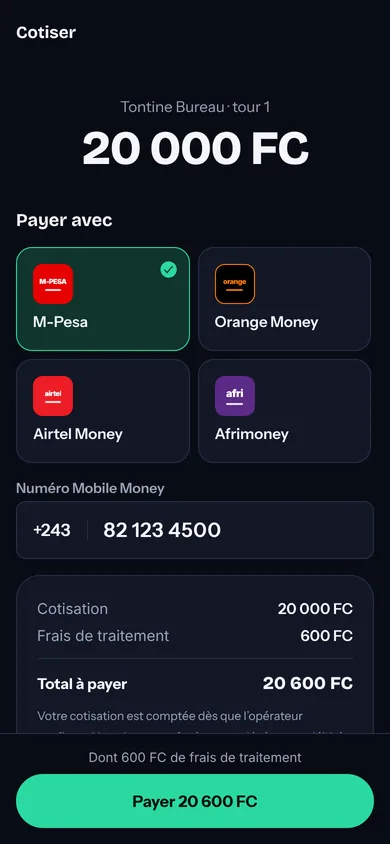
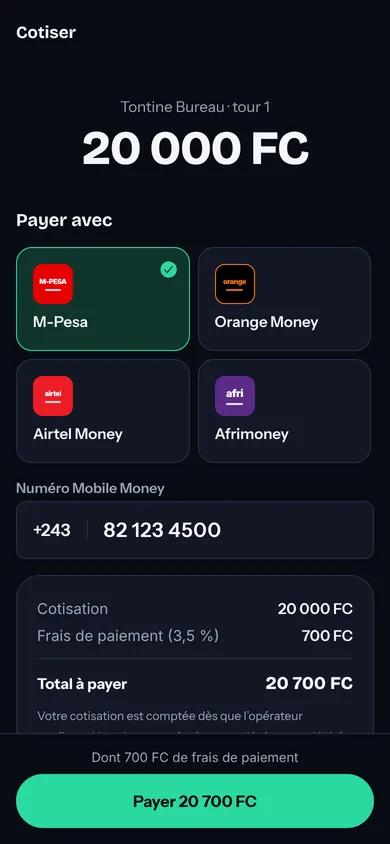
Frais : 3,5 % dépôt, 3 % retrait, 2 % service iKobi sur la cagnotte versée — moteur à composantes, affichage app, WhatsApp et site
Claude-Session: https://claude.ai/code/session_01GZQwZyCx5efDF4SVzYt82r

diff --git a/aide.html b/aide.html
@@ -21,7 +21,7 @@
 <link rel="preload" href="/assets/fonts/instrument-sans-latin-wght-normal.woff2" as="font" type="font/woff2" crossorigin>
 <link rel="stylesheet" href="/assets/style.css">
 <script src="/assets/main.js" defer></script>
-<script type="application/ld+json">{"@context":"https://schema.org","@type":"FAQPage","mainEntity":[{"@type":"Question","name":"Qu’est-ce qu’une likelemba ?","acceptedAnswer":{"@type":"Answer","text":"Une tontine tournante : un groupe de personnes de confiance cotise le même montant à intervalles réguliers, et à chaque tour un membre différent reçoit toute la cagnotte. Quand chacun l’a reçue une fois, la tontine est terminée."}},{"@type":"Question","name":"Combien coûte iKobi ?","acceptedAnswer":{"@type":"Answer","text":"Créer une tontine, inviter des membres et utiliser l’assistant WhatsApp sont gratuits. Les frais de paiement éventuels sont affichés avant chaque paiement, avec le total exact. Voir les tarifs."}},{"@type":"Question","name":"Quels moyens de paiement sont acceptés ?","acceptedAnswer":{"@type":"Answer","text":"M-Pesa (Vodacom), Orange Money, Airtel Money et Afrimoney (Africell), en francs congolais. Le dollar n’est pas encore disponible."}},{"@type":"Question","name":"Comment se connecter ?","acceptedAnswer":{"@type":"Answer","text":"Avec votre numéro de téléphone : nous vous envoyons un code à six chiffres sur WhatsApp. Il n’y a pas de mot de passe à retenir."}},{"@type":"Question","name":"iKobi peut-il me demander mon code PIN ?","acceptedAnswer":{"@type":"Answer","text":"Jamais. Le code PIN se saisit uniquement dans la fenêtre de votre opérateur, sur l’écran de votre téléphone. Si quelqu’un vous le demande au nom d’iKobi, c’est une arnaque : signalez-la à contact@ikobi.app."}},{"@type":"Question","name":"Le bénéficiaire du tour doit-il cotiser ?","acceptedAnswer":{"@type":"Answer","text":"Non. À chaque tour, tous les membres sauf le bénéficiaire cotisent. Il reçoit la cotisation multipliée par le nombre de membres moins un."}},{"@type":"Question","name":"Quand la cagnotte est-elle versée ?","acceptedAnswer":{"@type":"Answer","text":"Quand toutes les cotisations du tour sont confirmées et arrivées sur le compte de paiement. L’organisateur demande alors le versement, l’équipe iKobi le vérifie, puis l’argent est envoyé sur le Mobile Money du bénéficiaire."}},{"@type":"Question","name":"Que se passe-t-il si un membre ne paie pas ?","acceptedAnswer":{"@type":"Answer","text":"Le tour reste ouvert et la cagnotte n’est pas versée. Le membre reçoit des rappels, et le groupe voit qui est en attente. iKobi ne paie pas à la place d’un membre : choisissez des personnes de confiance."}},{"@type":"Question","name":"Mon paiement est « en attente » : que faire ?","acceptedAnswer":{"@type":"Answer","text":"Vérifiez votre téléphone et validez la demande avec votre code PIN. Si vous l’avez déjà fait, patientez quelques minutes : nous interrogeons l’opérateur automatiquement. Un paiement en attente n’est jamais compté deux fois."}},{"@type":"Question","name":"Puis-je cotiser sur WhatsApp ?","acceptedAnswer":{"@type":"Answer","text":"Oui. Écrivez « cotiser » à l’assistant iKobi : il vous montre le montant, envoie la demande à votre opérateur et confirme dans la conversation. Écrivez « statut » pour voir où en sont vos tontines."}},{"@type":"Question","name":"Comment supprimer mon compte ?","acceptedAnswer":{"@type":"Answer","text":"Dans l’app : Profil, puis Supprimer mon compte. La suppression est possible quand vous n’avez plus de tontine en cours."}},{"@type":"Question","name":"iKobi est-il une banque ?","acceptedAnswer":{"@type":"Answer","text":"Non. iKobi est un outil d’organisation des tontines. Les paiements sont traités par notre partenaire de paiement AWA Network et par les opérateurs Mobile Money."}}]}</script>
+<script type="application/ld+json">{"@context":"https://schema.org","@type":"FAQPage","mainEntity":[{"@type":"Question","name":"Qu’est-ce qu’une likelemba ?","acceptedAnswer":{"@type":"Answer","text":"Une tontine tournante : un groupe de personnes de confiance cotise le même montant à intervalles réguliers, et à chaque tour un membre différent reçoit toute la cagnotte. Quand chacun l’a reçue une fois, la tontine est terminée."}},{"@type":"Question","name":"Combien coûte iKobi ?","acceptedAnswer":{"@type":"Answer","text":"Créer une tontine, inviter des membres et utiliser l’assistant WhatsApp sont gratuits. Chaque cotisation comporte 3,5 % de frais de paiement, ajoutés au montant. À la réception de la cagnotte, 2 % de frais de service iKobi et 3 % de frais de retrait sont déduits. Tout est affiché avant de confirmer. Voir les tarifs."}},{"@type":"Question","name":"Quels moyens de paiement sont acceptés ?","acceptedAnswer":{"@type":"Answer","text":"M-Pesa (Vodacom), Orange Money, Airtel Money et Afrimoney (Africell), en francs congolais. Le dollar n’est pas encore disponible."}},{"@type":"Question","name":"Comment se connecter ?","acceptedAnswer":{"@type":"Answer","text":"Avec votre numéro de téléphone : nous vous envoyons un code à six chiffres sur WhatsApp. Il n’y a pas de mot de passe à retenir."}},{"@type":"Question","name":"iKobi peut-il me demander mon code PIN ?","acceptedAnswer":{"@type":"Answer","text":"Jamais. Le code PIN se saisit uniquement dans la fenêtre de votre opérateur, sur l’écran de votre téléphone. Si quelqu’un vous le demande au nom d’iKobi, c’est une arnaque : signalez-la à contact@ikobi.app."}},{"@type":"Question","name":"Le bénéficiaire du tour doit-il cotiser ?","acceptedAnswer":{"@type":"Answer","text":"Non. À chaque tour, tous les membres sauf le bénéficiaire cotisent. Il reçoit la cotisation multipliée par le nombre de membres moins un."}},{"@type":"Question","name":"Quand la cagnotte est-elle versée ?","acceptedAnswer":{"@type":"Answer","text":"Quand toutes les cotisations du tour sont confirmées et arrivées sur le compte de paiement. L’organisateur demande alors le versement, l’équipe iKobi le vérifie, puis l’argent est envoyé sur le Mobile Money du bénéficiaire."}},{"@type":"Question","name":"Que se passe-t-il si un membre ne paie pas ?","acceptedAnswer":{"@type":"Answer","text":"Le tour reste ouvert et la cagnotte n’est pas versée. Le membre reçoit des rappels, et le groupe voit qui est en attente. iKobi ne paie pas à la place d’un membre : choisissez des personnes de confiance."}},{"@type":"Question","name":"Mon paiement est « en attente » : que faire ?","acceptedAnswer":{"@type":"Answer","text":"Vérifiez votre téléphone et validez la demande avec votre code PIN. Si vous l’avez déjà fait, patientez quelques minutes : nous interrogeons l’opérateur automatiquement. Un paiement en attente n’est jamais compté deux fois."}},{"@type":"Question","name":"Puis-je cotiser sur WhatsApp ?","acceptedAnswer":{"@type":"Answer","text":"Oui. Écrivez « cotiser » à l’assistant iKobi : il vous montre le montant, envoie la demande à votre opérateur et confirme dans la conversation. Écrivez « statut » pour voir où en sont vos tontines."}},{"@type":"Question","name":"Comment supprimer mon compte ?","acceptedAnswer":{"@type":"Answer","text":"Dans l’app : Profil, puis Supprimer mon compte. La suppression est possible quand vous n’avez plus de tontine en cours."}},{"@type":"Question","name":"iKobi est-il une banque ?","acceptedAnswer":{"@type":"Answer","text":"Non. iKobi est un outil d’organisation des tontines. Les paiements sont traités par notre partenaire de paiement AWA Network et par les opérateurs Mobile Money."}}]}</script>
 </head>
 <body>
 <a class="skip" href="#contenu">Aller au contenu</a>
@@ -38,7 +38,7 @@
   <p class="lead">Les réponses aux questions les plus fréquentes. Vous ne trouvez pas ? Écrivez-nous à <a href="mailto:contact@ikobi.app">contact@ikobi.app</a>.</p>
 </div></section>
 <section><div class="wrap">
-  <div class="faq"><details><summary>Qu’est-ce qu’une likelemba ?</summary><div class="answer"><p>Une tontine tournante : un groupe de personnes de confiance cotise le même montant à intervalles réguliers, et à chaque tour un membre différent reçoit toute la cagnotte. Quand chacun l’a reçue une fois, la tontine est terminée.</p></div></details><details><summary>Combien coûte iKobi ?</summary><div class="answer"><p>Créer une tontine, inviter des membres et utiliser l’assistant WhatsApp sont gratuits. Les frais de paiement éventuels sont affichés avant chaque paiement, avec le total exact. <a href="/tarifs">Voir les tarifs</a>.</p></div></details><details><summary>Quels moyens de paiement sont acceptés ?</summary><div class="answer"><p>M-Pesa (Vodacom), Orange Money, Airtel Money et Afrimoney (Africell), en francs congolais. Le dollar n’est pas encore disponible.</p></div></details><details><summary>Comment se connecter ?</summary><div class="answer"><p>Avec votre numéro de téléphone : nous vous envoyons un code à six chiffres sur WhatsApp. Il n’y a pas de mot de passe à retenir.</p></div></details><details><summary>iKobi peut-il me demander mon code PIN ?</summary><div class="answer"><p>Jamais. Le code PIN se saisit uniquement dans la fenêtre de votre opérateur, sur l’écran de votre téléphone. Si quelqu’un vous le demande au nom d’iKobi, c’est une arnaque : signalez-la à <a href="mailto:contact@ikobi.app">contact@ikobi.app</a>.</p></div></details><details><summary>Le bénéficiaire du tour doit-il cotiser ?</summary><div class="answer"><p>Non. À chaque tour, tous les membres sauf le bénéficiaire cotisent. Il reçoit la cotisation multipliée par le nombre de membres moins un.</p></div></details><details><summary>Quand la cagnotte est-elle versée ?</summary><div class="answer"><p>Quand toutes les cotisations du tour sont confirmées et arrivées sur le compte de paiement. L’organisateur demande alors le versement, l’équipe iKobi le vérifie, puis l’argent est envoyé sur le Mobile Money du bénéficiaire.</p></div></details><details><summary>Que se passe-t-il si un membre ne paie pas ?</summary><div class="answer"><p>Le tour reste ouvert et la cagnotte n’est pas versée. Le membre reçoit des rappels, et le groupe voit qui est en attente. iKobi ne paie pas à la place d’un membre : choisissez des personnes de confiance.</p></div></details><details><summary>Mon paiement est « en attente » : que faire ?</summary><div class="answer"><p>Vérifiez votre téléphone et validez la demande avec votre code PIN. Si vous l’avez déjà fait, patientez quelques minutes : nous interrogeons l’opérateur automatiquement. Un paiement en attente n’est jamais compté deux fois.</p></div></details><details><summary>Puis-je cotiser sur WhatsApp ?</summary><div class="answer"><p>Oui. Écrivez « cotiser » à l’assistant iKobi : il vous montre le montant, envoie la demande à votre opérateur et confirme dans la conversation. Écrivez « statut » pour voir où en sont vos tontines.</p></div></details><details><summary>Comment supprimer mon compte ?</summary><div class="answer"><p>Dans l’app : Profil, puis Supprimer mon compte. La suppression est possible quand vous n’avez plus de tontine en cours.</p></div></details><details><summary>iKobi est-il une banque ?</summary><div class="answer"><p>Non. iKobi est un outil d’organisation des tontines. Les paiements sont traités par notre partenaire de paiement AWA Network et par les opérateurs Mobile Money.</p></div></details></div>
+  <div class="faq"><details><summary>Qu’est-ce qu’une likelemba ?</summary><div class="answer"><p>Une tontine tournante : un groupe de personnes de confiance cotise le même montant à intervalles réguliers, et à chaque tour un membre différent reçoit toute la cagnotte. Quand chacun l’a reçue une fois, la tontine est terminée.</p></div></details><details><summary>Combien coûte iKobi ?</summary><div class="answer"><p>Créer une tontine, inviter des membres et utiliser l’assistant WhatsApp sont gratuits. Chaque cotisation comporte 3,5 % de frais de paiement, ajoutés au montant. À la réception de la cagnotte, 2 % de frais de service iKobi et 3 % de frais de retrait sont déduits. Tout est affiché avant de confirmer. <a href="/tarifs">Voir les tarifs</a>.</p></div></details><details><summary>Quels moyens de paiement sont acceptés ?</summary><div class="answer"><p>M-Pesa (Vodacom), Orange Money, Airtel Money et Afrimoney (Africell), en francs congolais. Le dollar n’est pas encore disponible.</p></div></details><details><summary>Comment se connecter ?</summary><div class="answer"><p>Avec votre numéro de téléphone : nous vous envoyons un code à six chiffres sur WhatsApp. Il n’y a pas de mot de passe à retenir.</p></div></details><details><summary>iKobi peut-il me demander mon code PIN ?</summary><div class="answer"><p>Jamais. Le code PIN se saisit uniquement dans la fenêtre de votre opérateur, sur l’écran de votre téléphone. Si quelqu’un vous le demande au nom d’iKobi, c’est une arnaque : signalez-la à <a href="mailto:contact@ikobi.app">contact@ikobi.app</a>.</p></div></details><details><summary>Le bénéficiaire du tour doit-il cotiser ?</summary><div class="answer"><p>Non. À chaque tour, tous les membres sauf le bénéficiaire cotisent. Il reçoit la cotisation multipliée par le nombre de membres moins un.</p></div></details><details><summary>Quand la cagnotte est-elle versée ?</summary><div class="answer"><p>Quand toutes les cotisations du tour sont confirmées et arrivées sur le compte de paiement. L’organisateur demande alors le versement, l’équipe iKobi le vérifie, puis l’argent est envoyé sur le Mobile Money du bénéficiaire.</p></div></details><details><summary>Que se passe-t-il si un membre ne paie pas ?</summary><div class="answer"><p>Le tour reste ouvert et la cagnotte n’est pas versée. Le membre reçoit des rappels, et le groupe voit qui est en attente. iKobi ne paie pas à la place d’un membre : choisissez des personnes de confiance.</p></div></details><details><summary>Mon paiement est « en attente » : que faire ?</summary><div class="answer"><p>Vérifiez votre téléphone et validez la demande avec votre code PIN. Si vous l’avez déjà fait, patientez quelques minutes : nous interrogeons l’opérateur automatiquement. Un paiement en attente n’est jamais compté deux fois.</p></div></details><details><summary>Puis-je cotiser sur WhatsApp ?</summary><div class="answer"><p>Oui. Écrivez « cotiser » à l’assistant iKobi : il vous montre le montant, envoie la demande à votre opérateur et confirme dans la conversation. Écrivez « statut » pour voir où en sont vos tontines.</p></div></details><details><summary>Comment supprimer mon compte ?</summary><div class="answer"><p>Dans l’app : Profil, puis Supprimer mon compte. La suppression est possible quand vous n’avez plus de tontine en cours.</p></div></details><details><summary>iKobi est-il une banque ?</summary><div class="answer"><p>Non. iKobi est un outil d’organisation des tontines. Les paiements sont traités par notre partenaire de paiement AWA Network et par les opérateurs Mobile Money.</p></div></details></div>
 </div></section>
 </main>
 <footer class="foot">

diff --git a/tarifs.html b/tarifs.html
@@ -4,14 +4,14 @@
 <meta charset="utf-8">
 <meta name="viewport" content="width=device-width, initial-scale=1, viewport-fit=cover">
 <title>Tarifs et frais — iKobi</title>
-<meta name="description" content="Les frais d’iKobi sont affichés avant chaque paiement, avec le total exact. Créer une tontine, inviter des membres et utiliser WhatsApp sont gratuits.">
+<meta name="description" content="Créer une tontine est gratuit. 3,5 % de frais de paiement par cotisation ; 2 % de frais de service et 3 % de frais de retrait sur la cagnotte reçue. Tout est affiché avant de payer.">
 <link rel="canonical" href="https://ikobi.app/tarifs">
 <meta name="theme-color" content="#090c15">
 <meta property="og:type" content="website">
 <meta property="og:locale" content="fr_CD">
 <meta property="og:site_name" content="iKobi">
 <meta property="og:title" content="Tarifs et frais — iKobi">
-<meta property="og:description" content="Les frais d’iKobi sont affichés avant chaque paiement, avec le total exact. Créer une tontine, inviter des membres et utiliser WhatsApp sont gratuits.">
+<meta property="og:description" content="Créer une tontine est gratuit. 3,5 % de frais de paiement par cotisation ; 2 % de frais de service et 3 % de frais de retrait sur la cagnotte reçue. Tout est affiché avant de payer.">
 <meta property="og:url" content="https://ikobi.app/tarifs">
 <meta property="og:image" content="https://ikobi.app/og.png">
 <meta name="twitter:card" content="summary_large_image">
@@ -34,7 +34,7 @@
 <main id="contenu">
 <section class="page-head"><div class="wrap">
   <h1>Tarifs et frais</h1>
-  <p class="lead">Aucun frais caché : le montant exact à payer s’affiche avant que vous confirmiez, dans l’app comme sur WhatsApp.</p>
+  <p class="lead">Créer et gérer une tontine est gratuit. Vous payez des frais seulement quand l’argent circule, et le montant exact s’affiche toujours avant de confirmer.</p>
 </div></section>
 <section><div class="wrap u-stack-xl">
   <div class="table-wrap"><table class="stack">
@@ -43,20 +43,28 @@
       <tr><td data-label="Service">Télécharger l’app, créer un compte</td><td data-label="Prix" class="num">Gratuit</td><td data-label="Précisions" class="muted">Connexion par code WhatsApp, sans mot de passe.</td></tr>
       <tr><td data-label="Service">Créer une tontine, inviter des membres</td><td data-label="Prix" class="num">Gratuit</td><td data-label="Précisions" class="muted">Sans limite de nombre de tontines.</td></tr>
       <tr><td data-label="Service">Assistant WhatsApp et rappels</td><td data-label="Prix" class="num">Gratuit</td><td data-label="Précisions" class="muted">Les frais de connexion internet restent ceux de votre opérateur.</td></tr>
-      <tr><td data-label="Service">Payer une cotisation</td><td data-label="Prix" class="num">Affiché avant paiement</td><td data-label="Précisions" class="muted">Les frais de traitement éventuels s’ajoutent à la cotisation et sont montrés avec le total.</td></tr>
-      <tr><td data-label="Service">Recevoir la cagnotte</td><td data-label="Prix" class="num">Affiché avant versement</td><td data-label="Précisions" class="muted">Les frais de versement éventuels sont déduits et le montant net est indiqué.</td></tr>
+      <tr><td data-label="Service">Payer une cotisation</td><td data-label="Prix" class="num">3,5 %</td><td data-label="Précisions" class="muted">Frais de paiement Mobile Money, ajoutés à la cotisation. Le total exact s’affiche avant de payer.</td></tr>
+      <tr><td data-label="Service">Recevoir la cagnotte</td><td data-label="Prix" class="num">2 % + 3 %</td><td data-label="Précisions" class="muted">Frais de service iKobi (2 %) et frais de retrait Mobile Money (3 %), déduits de la cagnotte. Le montant net est indiqué avant de rejoindre une tontine.</td></tr>
     </tbody>
   </table></div>
   <div class="split u-start">
     <div class="copy">
-      <h2>À quoi ressemble un récapitulatif</h2>
-      <p class="muted">Avant chaque cotisation, l’app affiche ce récapitulatif. Les montants ci-contre sont un exemple de présentation, pas un tarif.</p>
-      <p class="note">Notre grille de frais définitive est en cours de validation avec notre partenaire de paiement. Elle sera publiée sur cette page avant l’ouverture des paiements.</p>
+      <h2>Un exemple complet</h2>
+      <p class="muted">Huit membres, 20 000 FC par tour. Chaque membre paie 20 700 FC par cotisation ; à son tour, il reçoit 133 000 FC nets sur son Mobile Money.</p>
+      <p class="note">Les frais de paiement couvrent les opérateurs Mobile Money et notre passerelle de paiement. Le frais de service iKobi n’est prélevé qu’une fois, sur la cagnotte reçue.</p>
     </div>
-    <div class="receipt" aria-label="Exemple de récapitulatif de paiement">
-      <div><span class="muted">Cotisation</span><span>20 000 FC</span></div>
-      <div><span class="muted">Frais de traitement</span><span>exemple</span></div>
-      <div class="total"><span>Total à payer</span><span>affiché ici</span></div>
+    <div class="u-stack">
+      <div class="receipt" aria-label="Exemple : une cotisation">
+        <div><span class="muted">Cotisation</span><span>20 000 FC</span></div>
+        <div><span class="muted">Frais de paiement (3,5 %)</span><span>700 FC</span></div>
+        <div class="total"><span>Total payé</span><span>20 700 FC</span></div>
+      </div>
+      <div class="receipt" aria-label="Exemple : la cagnotte reçue">
+        <div><span class="muted">Cagnotte (7 × 20 000 FC)</span><span>140 000 FC</span></div>
+        <div><span class="muted">Frais de service iKobi (2 %)</span><span>− 2 800 FC</span></div>
+        <div><span class="muted">Frais de retrait (3 %)</span><span>− 4 200 FC</span></div>
+        <div class="total"><span>Vous recevez</span><span>133 000 FC</span></div>
+      </div>
     </div>
   </div>
 </div></section>

diff --git a/comment-ca-marche.html b/comment-ca-marche.html
@@ -52,10 +52,10 @@
     <p class="muted">Huit collègues créent « Tontine Bureau » : 20 000 FC chaque semaine.</p>
     <ul class="ticks">
       <li>À chaque tour, sept membres cotisent 20 000 FC. Le bénéficiaire du tour ne cotise pas.</li>
-      <li>Le bénéficiaire reçoit 7 × 20 000 FC, soit 140 000 FC.</li>
+      <li>Le bénéficiaire reçoit 7 × 20 000 FC, soit une cagnotte de 140 000 FC, versée 133 000 FC nets après frais de service et de retrait.</li>
       <li>Après huit semaines, chacun a reçu la cagnotte une fois et versé 140 000 FC au total.</li>
     </ul>
-    <p class="note">Recevoir tôt revient à être avancé par le groupe ; recevoir tard revient à épargner. Personne ne gagne ni ne perd d’argent dans une tontine qui va jusqu’au bout, hors frais d’opérateur.</p>
+    <p class="note">Recevoir tôt revient à être avancé par le groupe ; recevoir tard revient à épargner. Une tontine ne rapporte pas d’intérêts : chacun récupère ce qu’il a versé, moins les frais de paiement et de service (<a href="/tarifs">voir les tarifs</a>).</p>
   </div>
   <figure class="circle" id="circle" data-pot="140 000 FC">
   <svg viewBox="0 0 480 480" role="img" aria-labelledby="circle-title circle-desc">

diff --git a/index.html b/index.html
@@ -114,7 +114,7 @@
     <div>
       <h3>Ce que fait iKobi</h3>
       <ul class="ticks">
-        <li>Les frais éventuels sont affichés avant chaque paiement, avec le total exact.</li>
+        <li>Les frais sont affichés avant chaque paiement, avec le total exact : 3,5 % par cotisation, 5 % sur la cagnotte reçue.</li>
         <li>Chaque cotisation est confirmée par l’opérateur avant d’être comptée.</li>
         <li>Chaque versement est demandé par l’organisateur puis vérifié par l’équipe iKobi.</li>
         <li>Chaque mouvement d’argent est inscrit dans un registre qu’on ne peut pas modifier après coup.</li>
